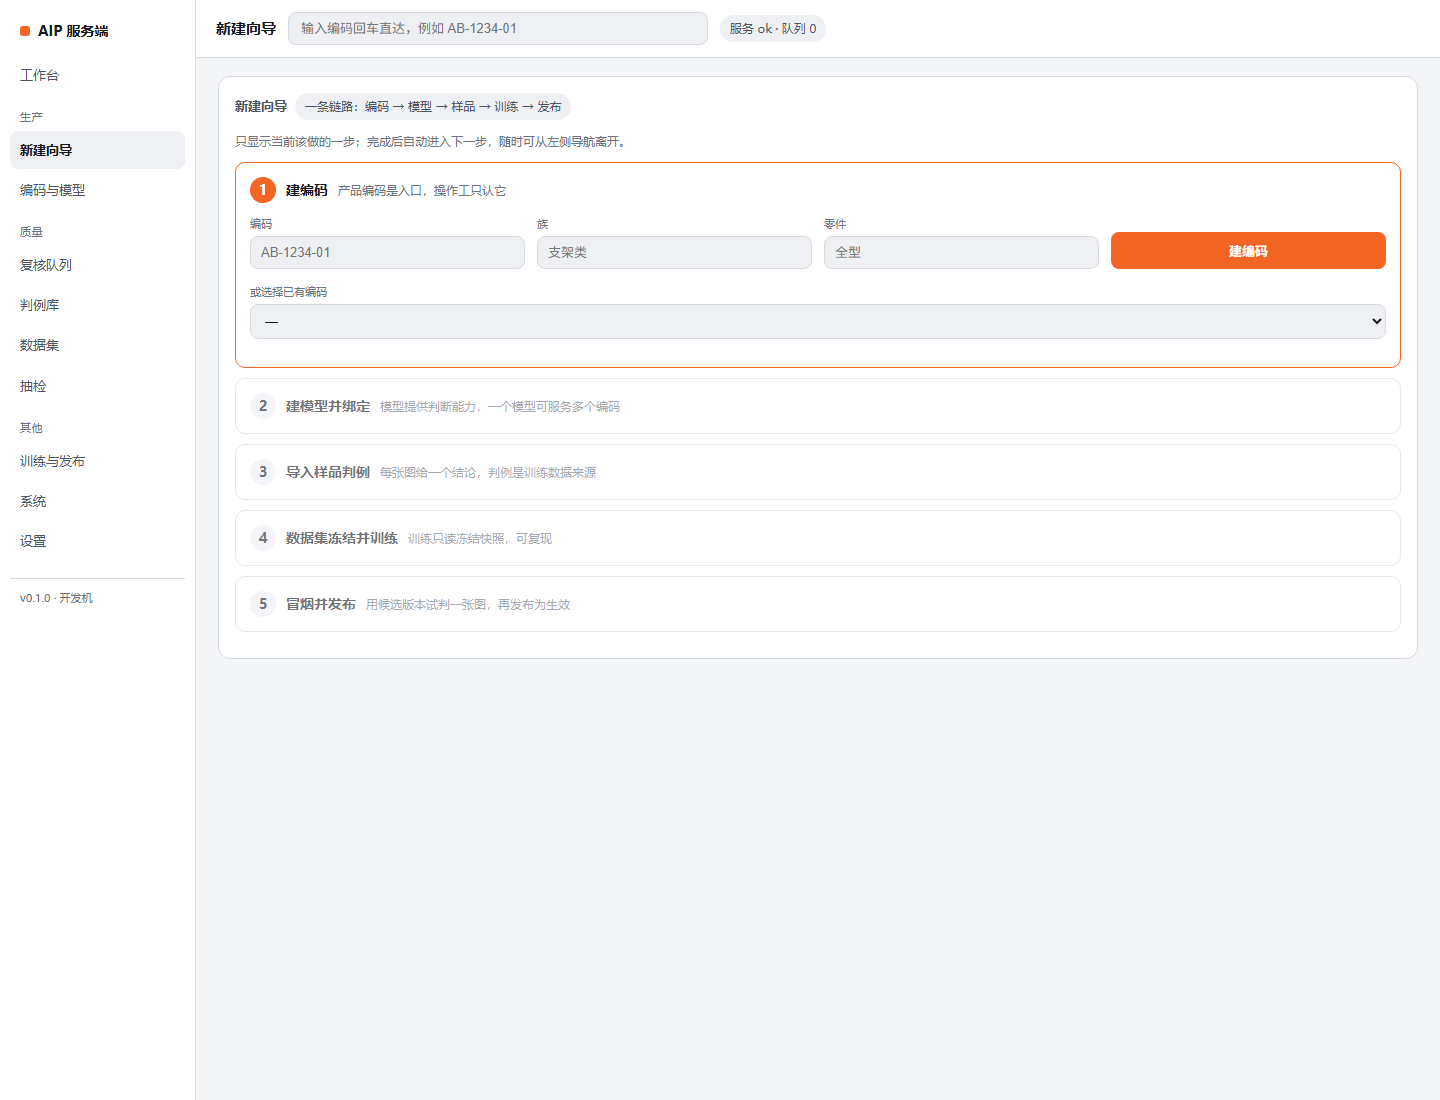
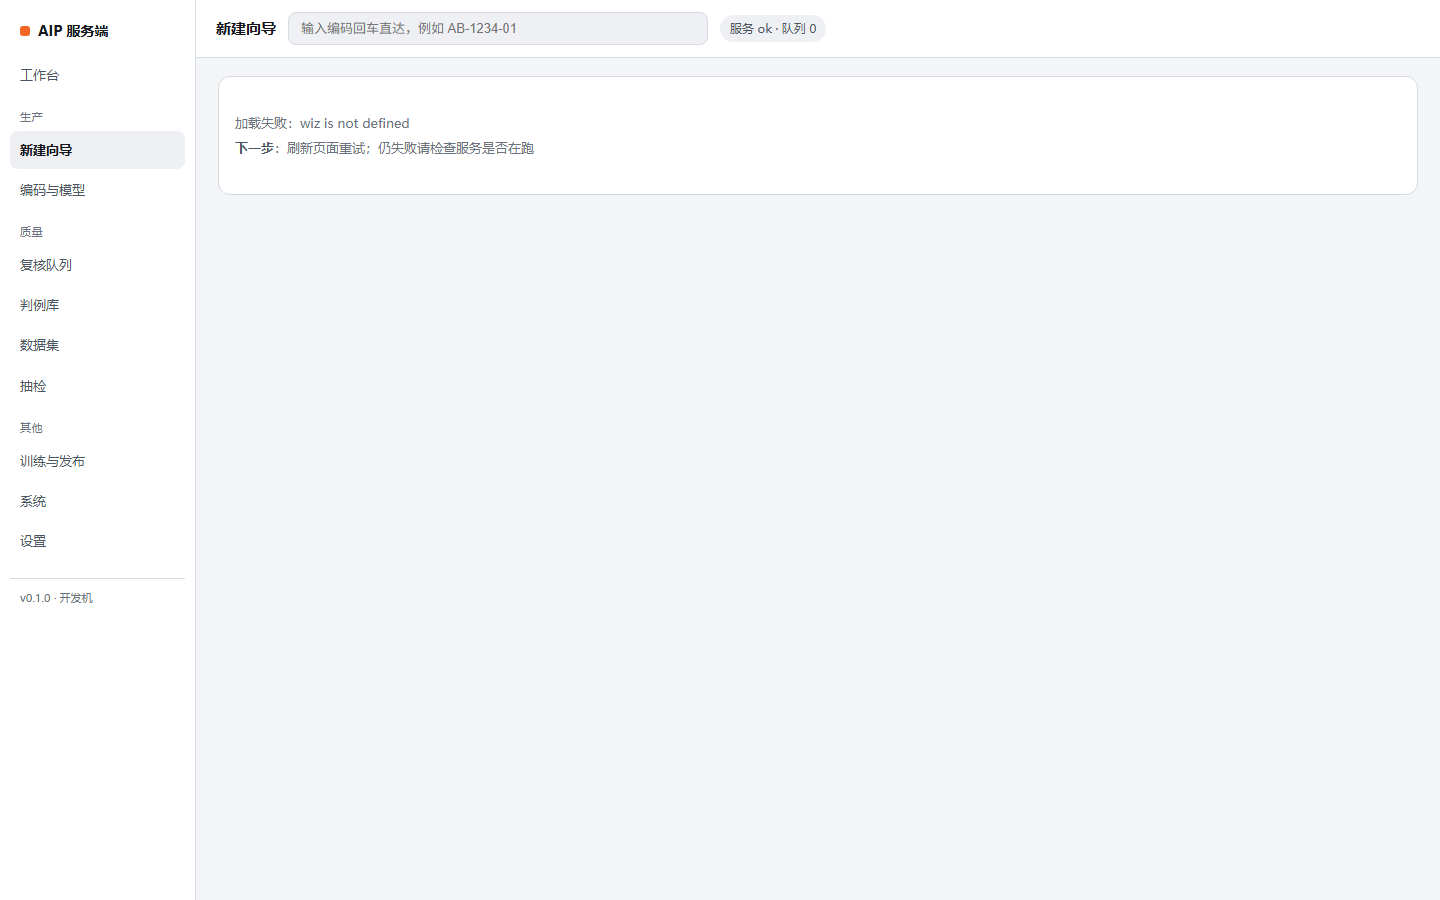
fix: 恢复向导/训练/数据集/抽检/系统的页面状态声明；补 admin 静态冒烟测试

diff --git a/aip/web/admin.html b/aip/web/admin.html
@@ -352,6 +352,13 @@ const ACTIONS = {
 };
 const actionLabel = (a) => ACTIONS[a] || a;
 
+// 页面级状态（各页筛选与向导进度）
+let wiz = { code: "", modelId: null };
+let trainingState = { q: "", family: "", jobModel: "" };
+let datasetState = { q: "", family: "", model: "", status: "" };
+let blindState = { q: "", status: "" };
+let systemState = { auditAction: "", auditActor: "", auditLimit: 100 };
+
 const fmtBytes = (n) => {
   if (n == null) return "—";
   const units = ["B", "KB", "MB", "GB", "TB"];

diff --git a/tests/test_web_admin_smoke.py b/tests/test_web_admin_smoke.py
@@ -1,0 +1,56 @@
+"""admin 页面静态冒烟：防止整段替换时删掉函数或状态声明。
+
+只做静态检查（不跑浏览器）：
+1. 路由里调用的 renderX 必须都有定义；
+2. 页面级状态声明必须存在；
+3. 内联脚本必须只有一段。
+"""
+
+from __future__ import annotations
+
+import re
+from pathlib import Path
+
+HTML = Path(__file__).resolve().parents[1] / "aip" / "web" / "admin.html"
+
+
+def _script() -> str:
+    text = HTML.read_text(encoding="utf-8")
+    blocks = re.findall(r"<script>(.*?)</script>", text, re.S)
+    assert len(blocks) == 1, f"内联脚本应为 1 段，实际 {len(blocks)}"
+    return blocks[0]
+
+
+def test_route_functions_are_defined():
+    script = _script()
+    called = set(re.findall(r"await (render\w+)\(", script))
+    called |= set(re.findall(r"return (render\w+)\(", script))
+    defined = set(re.findall(r"async function (render\w+)\(", script))
+    defined |= set(re.findall(r"function (render\w+)\(", script))
+    missing = sorted(called - defined)
+    assert not missing, f"路由调用了未定义的函数: {missing}"
+
+
+def test_page_state_declarations_exist():
+    script = _script()
+    required = [
+        "let wiz =",
+        "let trainingState =",
+        "let datasetState =",
+        "let blindState =",
+        "let systemState =",
+        "let reviewState =",
+        "let caseState =",
+        "let settingsState =",
+        "const TITLES =",
+        "const ACTIONS =",
+    ]
+    missing = [name for name in required if name not in script]
+    assert not missing, f"缺少状态声明: {missing}"
+
+
+def test_global_error_surface_present():
+    """白屏兜底：脚本错误要能显示在页面上。"""
+    script = _script()
+    assert "unhandledrejection" in script
+    assert 'addEventListener("error"' in script
